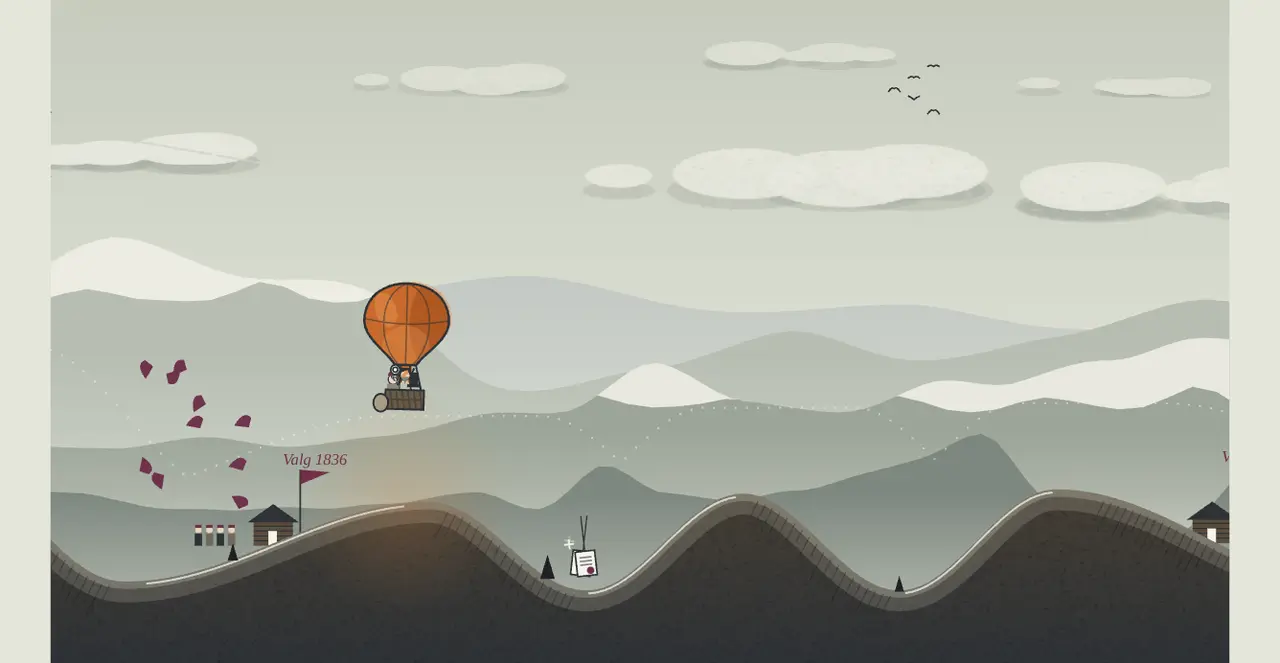
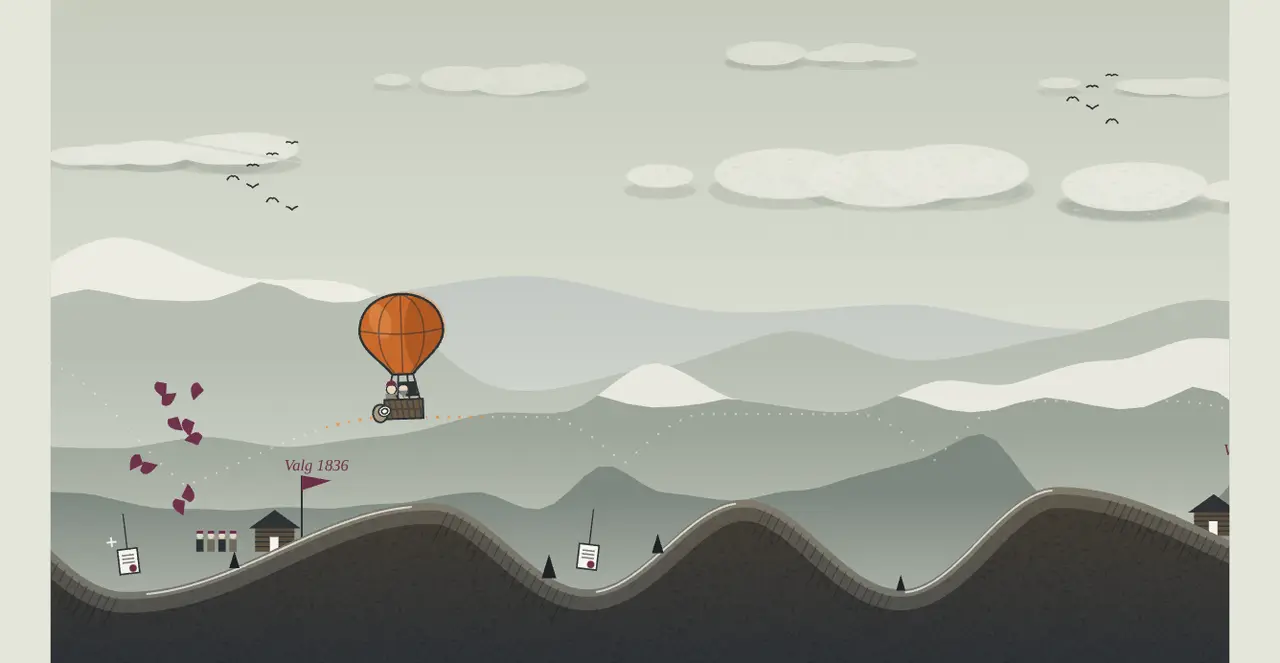
wip: pengeballongen siste forbedring
Claude-Session: https://claude.ai/code/session_01R4zTKsdndWxcFViphcUany

diff --git a/src/components/microgames/pengeballongen/scene.ts b/src/components/microgames/pengeballongen/scene.ts
@@ -396,29 +396,40 @@ export function tegnHindre(ctx: CanvasRenderingContext2D, g: Game, tid: number) 
         ctx.stroke();
         ctx.restore();
     }
-    // Riksrett-stemmene 1882-1884: en dommerklubbe på et segl. Hver kutter ett tau.
+    // Riksrett-stemmene 1882-1884: store røde stempler med teller (1/3, 2/3, 3/3). En rød
+    // stiplet linje går fra hvert stempel opp til tauet det kutter.
+    const r = ter.regjering;
+    const rcx = r.x - x0;
+    const rTopp = r.bunn - REGJ.høyde;
+    let nr = g.riksrett;
     for (const st of ter.riksrett) {
-        if (st.tatt) continue;
+        if (st.tatt || st.x < g.x - 40) continue;
         const sx = st.x - x0;
-        if (sx < -30 || sx > 990) continue;
+        const tauNr = nr++;
+        if (sx < -40 || sx > 1000 || tauNr > 2) continue;
         const sy = st.y - 10 + Math.sin(tid * 2.4 + st.x) * 3;
+        if (!g.falt && rcx > -120 && rcx < 1100) {
+            ctx.save();
+            ctx.strokeStyle = 'rgba(179,38,45,0.6)';
+            ctx.lineWidth = 2;
+            ctx.setLineDash([6, 6]);
+            ctx.lineDashOffset = -tid * 20;
+            ctx.beginPath();
+            ctx.moveTo(sx, sy - 28);
+            ctx.lineTo(rcx + REGJ.tau[tauNr], rTopp + 10);
+            ctx.stroke();
+            ctx.restore();
+        }
         ctx.save();
         ctx.translate(sx, sy);
-        ctx.globalAlpha = 0.35;
+        ctx.globalAlpha = 0.3;
         ctx.fillStyle = P.silkeLys;
         ctx.beginPath();
-        ctx.arc(0, 0, 22 + Math.sin(tid * 5) * 2, 0, Math.PI * 2);
+        ctx.arc(0, 0, 32 + Math.sin(tid * 5) * 2, 0, Math.PI * 2);
         ctx.fill();
         ctx.globalAlpha = 1;
-        ctx.fillStyle = P.karmin;
-        ctx.beginPath();
-        ctx.arc(0, 0, 13, 0, Math.PI * 2);
-        ctx.fill();
-        ctx.rotate(-0.6 + Math.sin(tid * 4 + st.x) * 0.25);
-        ctx.fillStyle = '#6b5a45';
-        ctx.fillRect(-1.5, -3, 3, 16);
-        ctx.fillStyle = P.hvit;
-        ctx.fillRect(-7, -8, 14, 7);
+        ctx.rotate(-0.15);
+        stempel(ctx, 26, `${tauNr + 1}/3`, 20);
         ctx.restore();
     }
     for (const f of ter.funn) {
@@ -429,9 +440,35 @@ export function tegnHindre(ctx: CanvasRenderingContext2D, g: Game, tid: number) 
     }
 }
 
+/** Riksrettens stempelfarge: klar rød, så stemplene skiller seg fra kronene. */
+const STEMPELRØD = '#b3262d';
+
+/** Målene på Kongens regjering (klippa) og hvor de tre tauene sitter. */
+const REGJ = { bredde: 200, høyde: 140, tau: [-64, 0, 64] };
+
+/** Et rundt rødt stempel med hvit ring og hvit tekst, sentrert i (0, 0). */
+function stempel(ctx: CanvasRenderingContext2D, rad: number, tekst: string, px: number) {
+    ctx.fillStyle = STEMPELRØD;
+    ctx.beginPath();
+    ctx.arc(0, 0, rad, 0, Math.PI * 2);
+    ctx.fill();
+    ctx.strokeStyle = P.hvit;
+    ctx.lineWidth = Math.max(1.2, rad * 0.08);
+    ctx.beginPath();
+    ctx.arc(0, 0, rad * 0.8, 0, Math.PI * 2);
+    ctx.stroke();
+    ctx.fillStyle = P.hvit;
+    ctx.textAlign = 'center';
+    ctx.textBaseline = 'middle';
+    ctx.font = `bold ${px}px ${FONT}`;
+    ctx.fillText(tekst, 0, 1);
+    ctx.textBaseline = 'alphabetic';
+}
+
 /**
  * Kongens regjering: en fjellklippe som henger i tre tau over dalen 1882-1884. Hver
- * riksrett-stemme kutter ett tau; det tredje får klippa til å falle, og Stortinget får roret.
+ * riksrett-stemme kutter ett tau (et rødt stempel der tauet satt); det tredje får klippa til
+ * å falle, og Stortinget får roret. Klippa henger så lavt at den aldri går bak Spart-kortet.
  */
 function tegnRegjering(
     ctx: CanvasRenderingContext2D,
@@ -445,15 +482,13 @@ function tegnRegjering(
     if (cx < -300 || cx > 1260) return;
     const fall = g.falt ? Math.max(0, (g.x - g.falt) / 260) : 0;
     if (fall > 2.4) return;
-    const bredde = 170;
-    const høyde = 150;
+    const { bredde, høyde, tau } = REGJ;
     const dy = fall * fall * 260;
     const bunn = r.bunn + dy;
     const topp = bunn - høyde;
     // Tauene: fra himmelen ned i klippa. Kuttede tau henger og slenger.
-    const tau = [-bredde * 0.32, 0, bredde * 0.32];
     ctx.strokeStyle = '#6b5a45';
-    ctx.lineWidth = 3;
+    ctx.lineWidth = 4;
     tau.forEach((tx, i) => {
         const kuttet = i < g.riksrett;
         ctx.beginPath();
@@ -491,15 +526,36 @@ function tegnRegjering(
     }
     ctx.fillStyle = P.hvit;
     ctx.fillRect(-bredde / 2, -høyde / 2 - 4, bredde, 5);
-    krone(ctx, 0, -høyde / 2 - 22, 1.4);
+    // Navneskiltet: krone og «Kongens regjering» på lyst papir, så det leses på avstand.
+    const sw = bredde - 14;
+    ctx.fillStyle = 'rgba(31,35,38,0.35)';
+    ctx.fillRect(-sw / 2 + 2, -34 + 3, sw, 50);
     ctx.fillStyle = P.hvit;
+    ctx.fillRect(-sw / 2, -34, sw, 50);
+    ctx.strokeStyle = P.kritt;
+    ctx.lineWidth = 1.5;
+    ctx.strokeRect(-sw / 2, -34, sw, 50);
+    krone(ctx, 0, -20, 1.1);
+    ctx.fillStyle = P.kritt;
     ctx.textAlign = 'center';
-    ctx.font = `italic bold 17px ${FONT}`;
-    ctx.fillText('Kongens regjering', 0, 4);
-    ctx.font = `15px ${FONT}`;
-    ctx.fillText(g.falt ? 'Felt i riksretten' : `${3 - g.riksrett} tau igjen`, 0, 26);
+    ctx.font = `bold 18px ${FONT}`;
+    ctx.fillText('Kongens regjering', 0, 9);
+    ctx.fillStyle = P.hvit;
+    ctx.font = `bold 16px ${FONT}`;
+    ctx.fillText(g.falt ? 'Felt i riksretten!' : `${3 - g.riksrett} av 3 tau holder`, 0, 40);
     ctx.restore();
     ctx.globalAlpha = 1;
+    // Et rødt stempel der hvert kuttet tau satt: riksretten kuttet det.
+    if (!g.falt) {
+        tau.forEach((tx, i) => {
+            if (i >= g.riksrett) return;
+            ctx.save();
+            ctx.translate(cx + tx, topp - 2);
+            ctx.rotate(-0.2);
+            stempel(ctx, 15, `${i + 1}/3`, 11);
+            ctx.restore();
+        });
+    }
 }
 
 /**
@@ -532,21 +588,32 @@ function tegnBevilg(ctx: CanvasRenderingContext2D, g: Game, tid: number) {
         ctx.fillRect(sx - v - 6, bue - 6, 10, b.bunn - bue + 6);
         ctx.fillRect(sx + v - 4, bue - 6, 10, b.bunn - bue + 6);
         ctx.fillRect(sx - v - 14, bue - 12, v * 2 + 28, 9);
-        // Banneret med pris og navn.
-        const bw = 150;
-        const by = bue - 54;
+        // Banneret: navnet og begge utfallene, så byttet står der før du velger.
+        const bw = 196;
+        const bh = valgt ? 40 : 64;
+        const by = bue - bh - 14;
         ctx.fillStyle = valgt === 'ja' ? P.silke : P.hvit;
         ctx.strokeStyle = P.kritt;
         ctx.lineWidth = 1.5;
-        ctx.fillRect(sx - bw / 2, by, bw, 40);
-        ctx.strokeRect(sx - bw / 2, by, bw, 40);
+        ctx.fillRect(sx - bw / 2, by, bw, bh);
+        ctx.strokeRect(sx - bw / 2, by, bw, bh);
         ctx.textAlign = 'center';
-        ctx.fillStyle = valgt === 'ja' ? P.hvit : P.karmin;
-        ctx.font = `bold 16px ${FONT}`;
-        ctx.fillText(valgt === 'ja' ? 'BEVILGET' : `BEVILG ${b.pris} Spd.`, sx, by + 17);
-        ctx.fillStyle = valgt === 'ja' ? P.hvit : P.kritt;
-        ctx.font = `italic 14px ${FONT}`;
-        ctx.fillText(b.navn, sx, by + 34);
+        if (valgt) {
+            ctx.fillStyle = valgt === 'ja' ? P.hvit : P.karmin;
+            ctx.font = `bold 16px ${FONT}`;
+            ctx.fillText(valgt === 'ja' ? 'BEVILGET' : 'SA NEI', sx, by + 17);
+            ctx.fillStyle = valgt === 'ja' ? P.hvit : P.kritt;
+            ctx.font = `italic 14px ${FONT}`;
+            ctx.fillText(b.navn, sx, by + 34);
+        } else {
+            ctx.fillStyle = P.kritt;
+            ctx.font = `italic 14px ${FONT}`;
+            ctx.fillText(b.navn, sx, by + 16);
+            ctx.font = `bold 14px ${FONT}`;
+            ctx.fillText('Over: spar, fyr selv', sx, by + 35);
+            ctx.fillStyle = P.karmin;
+            ctx.fillText(`Under: bevilg -${b.pris} Spd.`, sx, by + 55);
+        }
         ctx.restore();
     }
 }
@@ -712,5 +779,10 @@ function tegnPort(
         gr.addColorStop(1, 'rgba(240,200,120,0)');
         ctx.fillStyle = gr;
         ctx.fillRect(a, bunn + 4, b - a, 150);
+        // Et skilt nederst på veggen: hva fjellet er, og at veien går under.
+        ctx.fillStyle = P.hvit;
+        ctx.textAlign = 'center';
+        ctx.font = `bold 17px ${FONT}`;
+        ctx.fillText('Pil ned: dykk under!', (a + b) / 2, bunn - 30);
     }
 }

diff --git a/src/components/microgames/pengeballongen/coach.ts b/src/components/microgames/pengeballongen/coach.ts
@@ -67,7 +67,7 @@ export function coachHendelse(h: Hendelse, g: Game, c: Coach) {
             if (h.hårfint) ved(h.ja ? 'Akkurat under banneret!' : 'Hårfint over porten!', -60, P.silke, false, 1);
             break;
         case 'riksrett':
-            ved(h.n >= 3 ? 'Siste tau kuttet!' : `Riksrett: tau ${h.n} av 3 kuttet`, -110, P.silke, true, 1.4);
+            ved(`Riksrett ${h.n}/3: tau kuttet!`, -110, P.karmin, true, 1.4);
             break;
         case 'ganger':
             if (h.ganger > h.fra) {
@@ -102,7 +102,7 @@ export function coachHendelse(h: Hendelse, g: Game, c: Coach) {
             ved(`Stemme! +${h.verdi}`, -60, P.silke, true, 1);
             break;
         case 'roret': {
-            text.banner('SVERDRUP TAR RORET', P.silke);
+            text.banner('RORET ER DITT!', P.silke);
             const t0 = g.t;
             text.beatOnce('roret', BEAT.roret.tittel, BEAT.roret.tekst, {
                 at: c.vedBallong(-60),

diff --git a/src/components/microgames/pengeballongen/figures.ts b/src/components/microgames/pengeballongen/figures.ts
@@ -255,6 +255,23 @@ function mannskap(ctx: CanvasRenderingContext2D, m: Mannskap) {
         ctx.stroke();
         ctx.fillStyle = '#6b5a45';
         ctx.fillRect(31, 0, 8, 14);
+        // Navnelapp i kurven: «Sverdrup», så eleven ser hvem som har tatt over roret.
+        ctx.save();
+        ctx.translate(42, -26);
+        ctx.scale(1 / STØRRELSE, 1 / STØRRELSE);
+        ctx.font = 'bold 15px "Bodoni Moda", Didot, Georgia, serif';
+        const nw = ctx.measureText('Sverdrup').width + 12;
+        ctx.fillStyle = P.hvit;
+        ctx.fillRect(0, -10, nw, 21);
+        ctx.strokeStyle = P.kritt;
+        ctx.lineWidth = 1.2;
+        ctx.strokeRect(0, -10, nw, 21);
+        ctx.fillStyle = P.kritt;
+        ctx.textAlign = 'left';
+        ctx.textBaseline = 'middle';
+        ctx.fillText('Sverdrup', 6, 1);
+        ctx.textBaseline = 'alphabetic';
+        ctx.restore();
     }
 }
 

diff --git a/src/components/microgames/pengeballongen/levels.ts b/src/components/microgames/pengeballongen/levels.ts
@@ -133,7 +133,7 @@ export const BANER: { år: number; navn: string; bevilg?: boolean }[] = [
  */
 export const RIKSRETT = [1882.35, 1882.95, 1883.55];
 /** Kongens regjering henger over dalen her (år), med bunnen så høyt (skjerm-y). */
-export const REGJERING = { år: 1883.95, bunn: 235 };
+export const REGJERING = { år: 1883.95, bunn: 300 };
 
 /** Kongens navngitte utgifter: en brå spiss på tinden i perioden. */
 export const UTGIFTER: { år: number; navn: string; bevilg?: boolean }[] = [

diff --git a/src/components/microgames/pengeballongen/texts.ts b/src/components/microgames/pengeballongen/texts.ts
@@ -16,8 +16,8 @@ export const SJANSE_LÆRDOM =
 
 export const LAPP = {
     hold: 'Hold MELLOMROM: betal for løft',
-    bevilg: 'Lavt gjennom porten: bevilg fra sekken',
-    spar: 'Over porten: spar sekken, fyr selv',
+    bevilg: 'Under porten: bevilg fra sekken',
+    spar: 'Over porten: spar, fyr selv',
     riksrett: 'Riksrett: ta stemmene, kutt tauene!',
     grense: 'Over streken = bøndene stemmer deg ut',
     ganger: 'Gli tett, men fyr før ryggen',

diff --git a/docs/microgames/briefer/pengeballongen.md b/docs/microgames/briefer/pengeballongen.md
@@ -680,3 +680,22 @@ porten tidlig i en billig periode) er sjeldne for roboten. (2) Riksrett-klippa s
 Spart-kortet når den kommer inn fra høyre, så tauene synes først når den er midt i bildet. (3)
 HUD-en oppe til venstre er fortsatt stor (Ueland + budsjettkort). (4) Filmbildet ved 110 s viser
 rorstrekket, ikke tauene som kuttes (det skjer rundt 97-100 s).
+
+### Natt 2, forbedring 3 (siste runde, etter vurdering 2: Gøy 3, Utseende 4, Lærerikt 4, Lesbart 4, Unikt 4)
+
+Bare visning, ingen nye regler (simuleringen er uendret: flink 100 %, middels 82 %, trapp 47 < 256 < 554).
+
+1. 1884 lesbart uten tekst. Kongens regjering har fått et lyst navneskilt med krone og
+   «Kongens regjering» i 18 px fet skrift, og under det «n av 3 tau holder». Klippa henger lavere
+   (`REGJERING.bunn` 235 -> 300, bare bilde) og er 140 px høy, så toppen ligger under Spart-kortet.
+   Riksrett-stemmene er store røde stempler (radius 26) med teller 1/3, 2/3, 3/3, og en rød stiplet
+   linje går fra hvert stempel opp til tauet det kutter. Der et tau er kuttet, sitter et lite rødt
+   stempel med nummeret. Lappen sier «Riksrett n/3: tau kuttet!», og banneret når klippa faller er
+   «RORET ER DITT!». Sverdrup har en navnelapp i kurven. Fjellveggene i rorstrekket (den svarte
+   blokka i film-07) har skiltet «Pil ned: dykk under!».
+2. Portbyttet synlig. Banneret over bevilgningsporten viser navnet, «Over: spar, fyr selv» og
+   «Under: bevilg -25 Spd.» (prisen per port). Etterpå står «BEVILGET» eller «SA NEI». Lappene er
+   nå «Under porten: bevilg fra sekken» og «Over porten: spar, fyr selv».
+
+Porter: CI-selvspill (fart 4, 60 s) grønt, hele runden grønn (flink vant med 549), audit 0 funn,
+likhet nærmest generalstreiken (0,43). Ikke gjort: pressmåleren og HUD-ryddingen fra vurderingen.

diff --git a/src/components/microgames/pengeballongen/KART.md b/src/components/microgames/pengeballongen/KART.md
@@ -73,7 +73,7 @@ Komponent: `../Pengeballongen.tsx` (skall, input, lagring, meny/pause/slutt-skje
 18. Budsjettet strammes: `grense(år)` går fra `penger.grense` (26) i 1833 til `grenseSlutt` (22) i
     1881. HUD-kortet viser «Igjen til valget 18xx: n av m Spd.». Presset (`press()`) har fire ledd:
     synk, fjell, fart og hvor stram grensen er.
-19. Riksretten 1882-1884: tre stemmer (`ter.riksrett`) henger ca. 95 px over dalen. Hver kutter ett
+19. Riksretten 1882-1884: tre stemmer (`ter.riksrett`, røde stempler med teller 1/3-3/3 og stiplet linje til tauet) henger ca. 95 px over dalen. Hver kutter ett
     tau til Kongens regjering (`ter.regjering`, klippa i `tegnRegjering`). Det tredje gir roret
     (`g.falt`, klippa faller); mangler noen i 1884, dømmer riksretten resten likevel.
 20. Rorstrekket sparer per år, ikke per sekund (sakte film), ellers ga det siste halvåret mer enn
